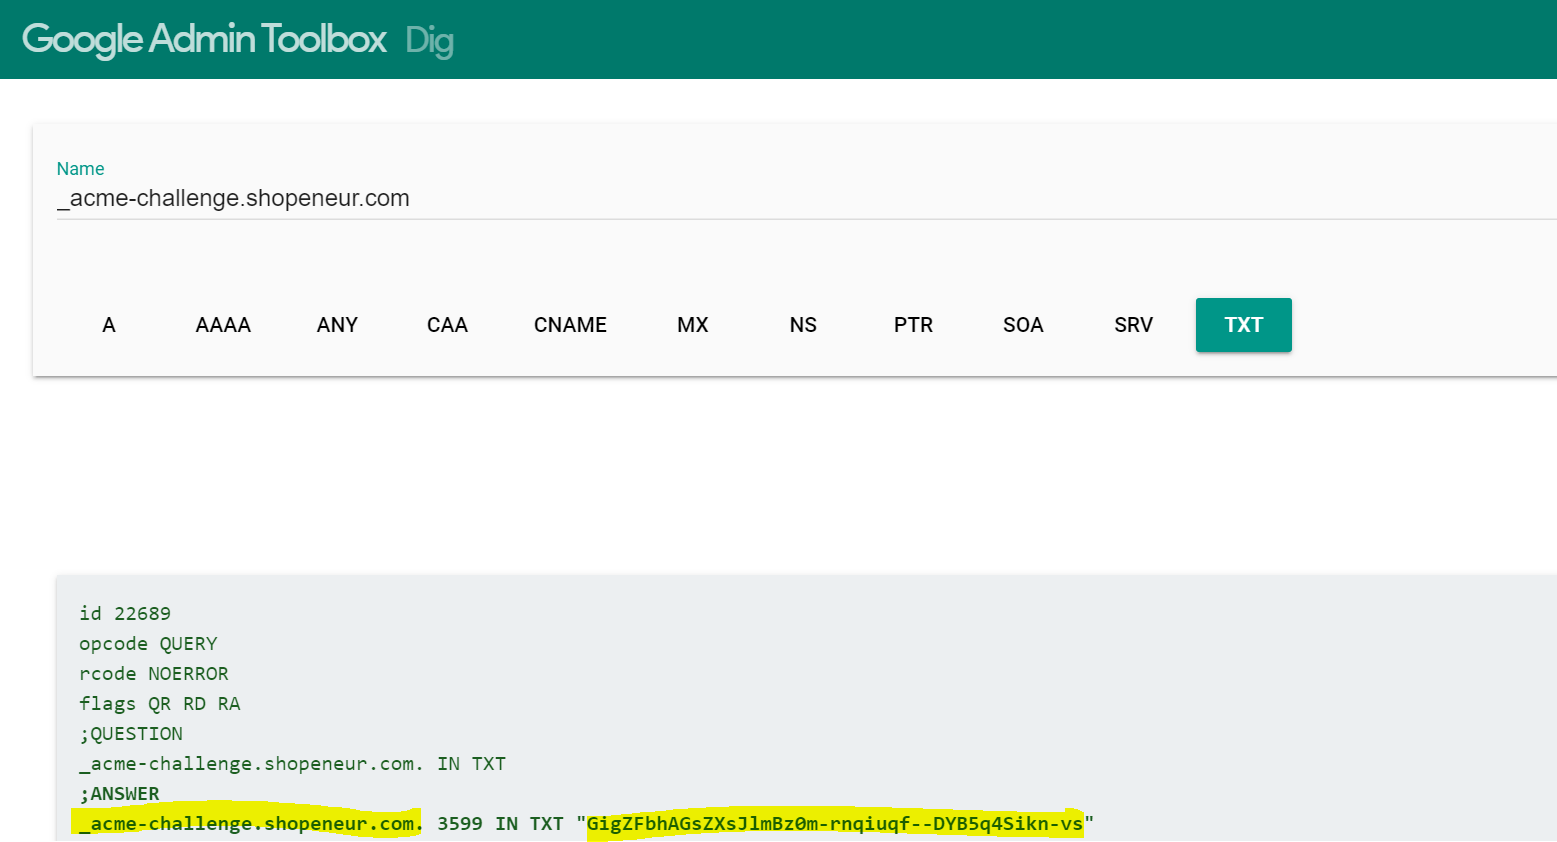
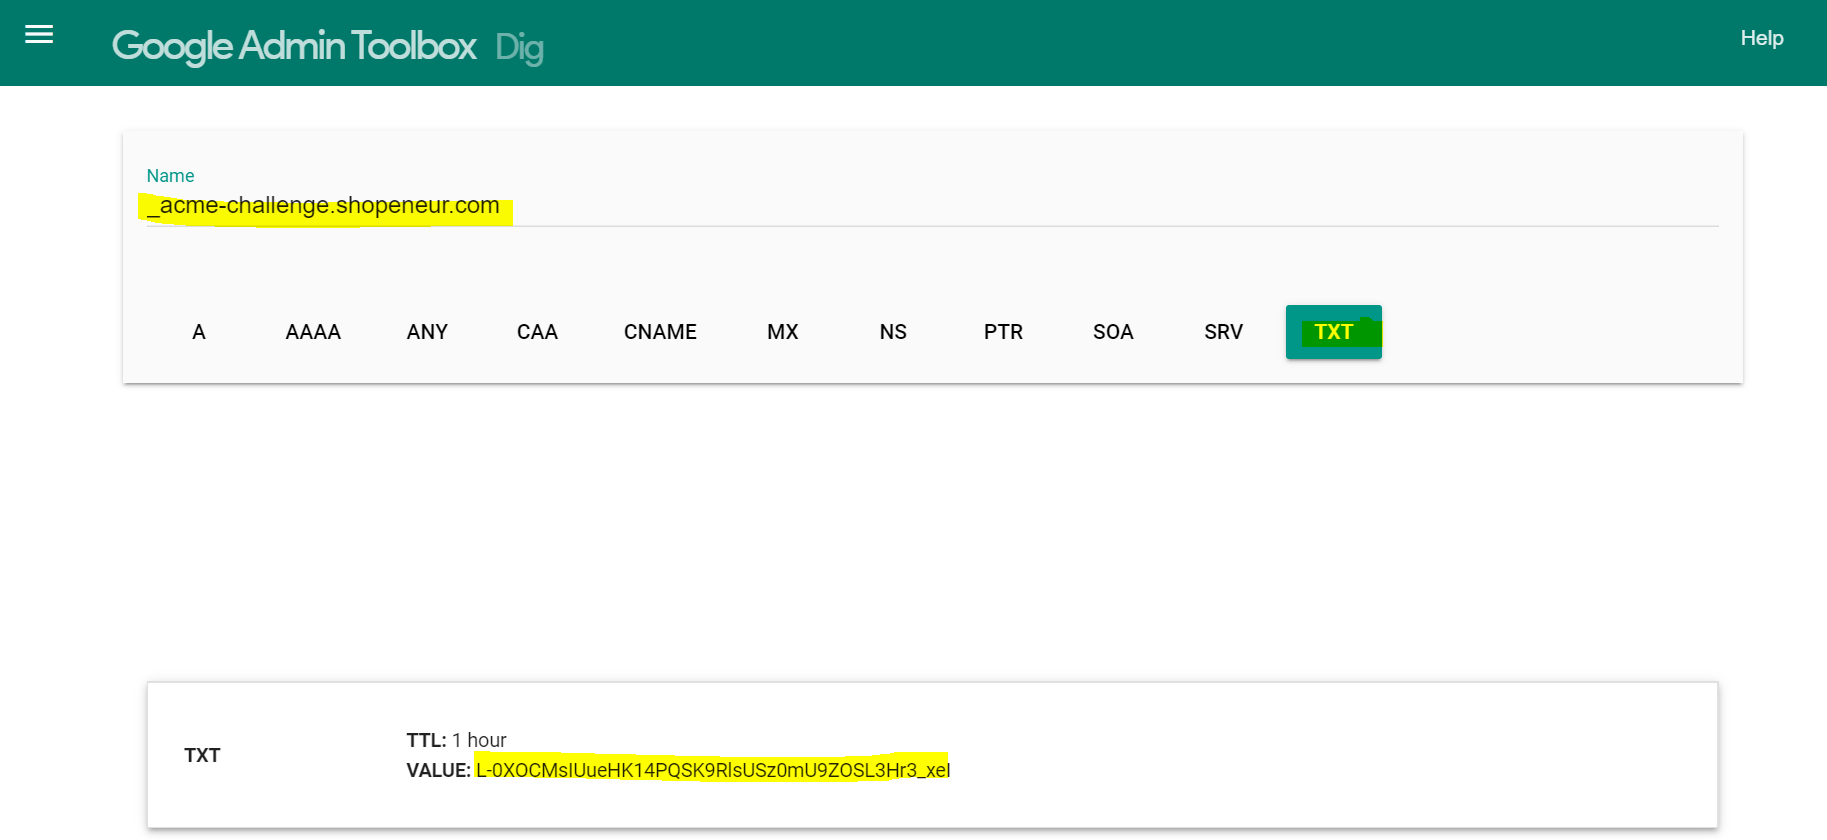
added free certificates

diff --git a/portal/stand-alone.md b/portal/stand-alone.md
@@ -25,7 +25,7 @@ You can create a TLS/SSL certificate by using either the :
 The RCL Portal uses the HTTP-01 challenge type to issue certificates for : 
 
 - primary domains (e.g. contoso.net)
-- subdomains (e.g. store.contoso.net).
+- subdomains (e.g. store.contoso.net, www.contoso.net, etc.)
 
 To validate your domain with the HTTP challenge, you will be required to place a file in the root of your website and ensure that this file can be accessed publicly on the web.
 
@@ -51,7 +51,9 @@ To validate your domain with the HTTP challenge, you will be required to place a
 
 ![image](../images/portal/stand-alone-create.PNG)
 
-- Clieck the **Create** button when you are done
+- **The website must exist at the domain you entered, eg. in our example, the website can be accessed at 'http://shopeneur.com' in a web browser**
+
+- Click the **Create** button when you are done
 
 - In your hosted website, you will need to create a folder named: **.well-known/acme-challenge** (note the dot at the start) in the root of your website.
 
@@ -98,10 +100,10 @@ To validate your domain with the HTTP challenge, you will be required to place a
 RCL uses the DNS-01 challenge type to issue certificates for :
 
 - primary domains (e.g. contoso.net)
-- subdomains (e.g. store.contoso.net)
+- subdomains (e.g. store.contoso.net, www.contoso.net, etc.)
 - wild card subdomains (e.g. *.contoso.net)
 
-## Add A SSL/TLS Certificate
+## Add a SSL/TLS Certificate
 
 - In the ‘Certificates’ module of RCL , click on the 'Create New SSL/TLS Certificate' link.
 
@@ -123,7 +125,7 @@ RCL uses the DNS-01 challenge type to issue certificates for :
 
 - Click the 'Create' button when you are done
 
-- In your management portal from your domain registrar, add a DNS TXT record (name/host) as defined in the ‘DNS Validation’ page (note the underscore '_') with the value as defined on the page.
+- In your management portal from your domain registrar, add a DNS TXT record (name/host) as defined in the ‘DNS Validation’ page (note the underscore '_' at the start) with the value as defined on the page
 
 ![image](../images/portal/stand-alone-dns-validation.PNG)
 
@@ -131,7 +133,7 @@ RCL uses the DNS-01 challenge type to issue certificates for :
 
 ![image](../images/portal/stand-alone-dns-record.PNG)
 
-- You can test the DNS record in the [Dig site](https://toolbox.googleapps.com/apps/dig/). In the site add the name identified in the DNS Validation page; and select the **TXT** record. The value for the record will be shown in the **;ANSWER** section
+- You can test the DNS record in the [Dig site](https://toolbox.googleapps.com/apps/dig/). In the site add the name identified in the DNS Validation page; and select the **TXT** record. The value for the record will be shown in the **TXT** section
 
 ![image](../images/portal/dig.PNG)
 
@@ -146,6 +148,10 @@ RCL uses the DNS-01 challenge type to issue certificates for :
 - When this is done, the SSL/TLS certificate will be displayed in the certificates list.
 
 ![image](../images/portal/certificate-list.PNG)
+
+# Create a Free TLS/SSL Certificate
+
+You can create a free TLS/SSL certificate in the [RCL Website](https://rclapp.com)
 
 # Accessing the TLS/SSL Certificate
 
